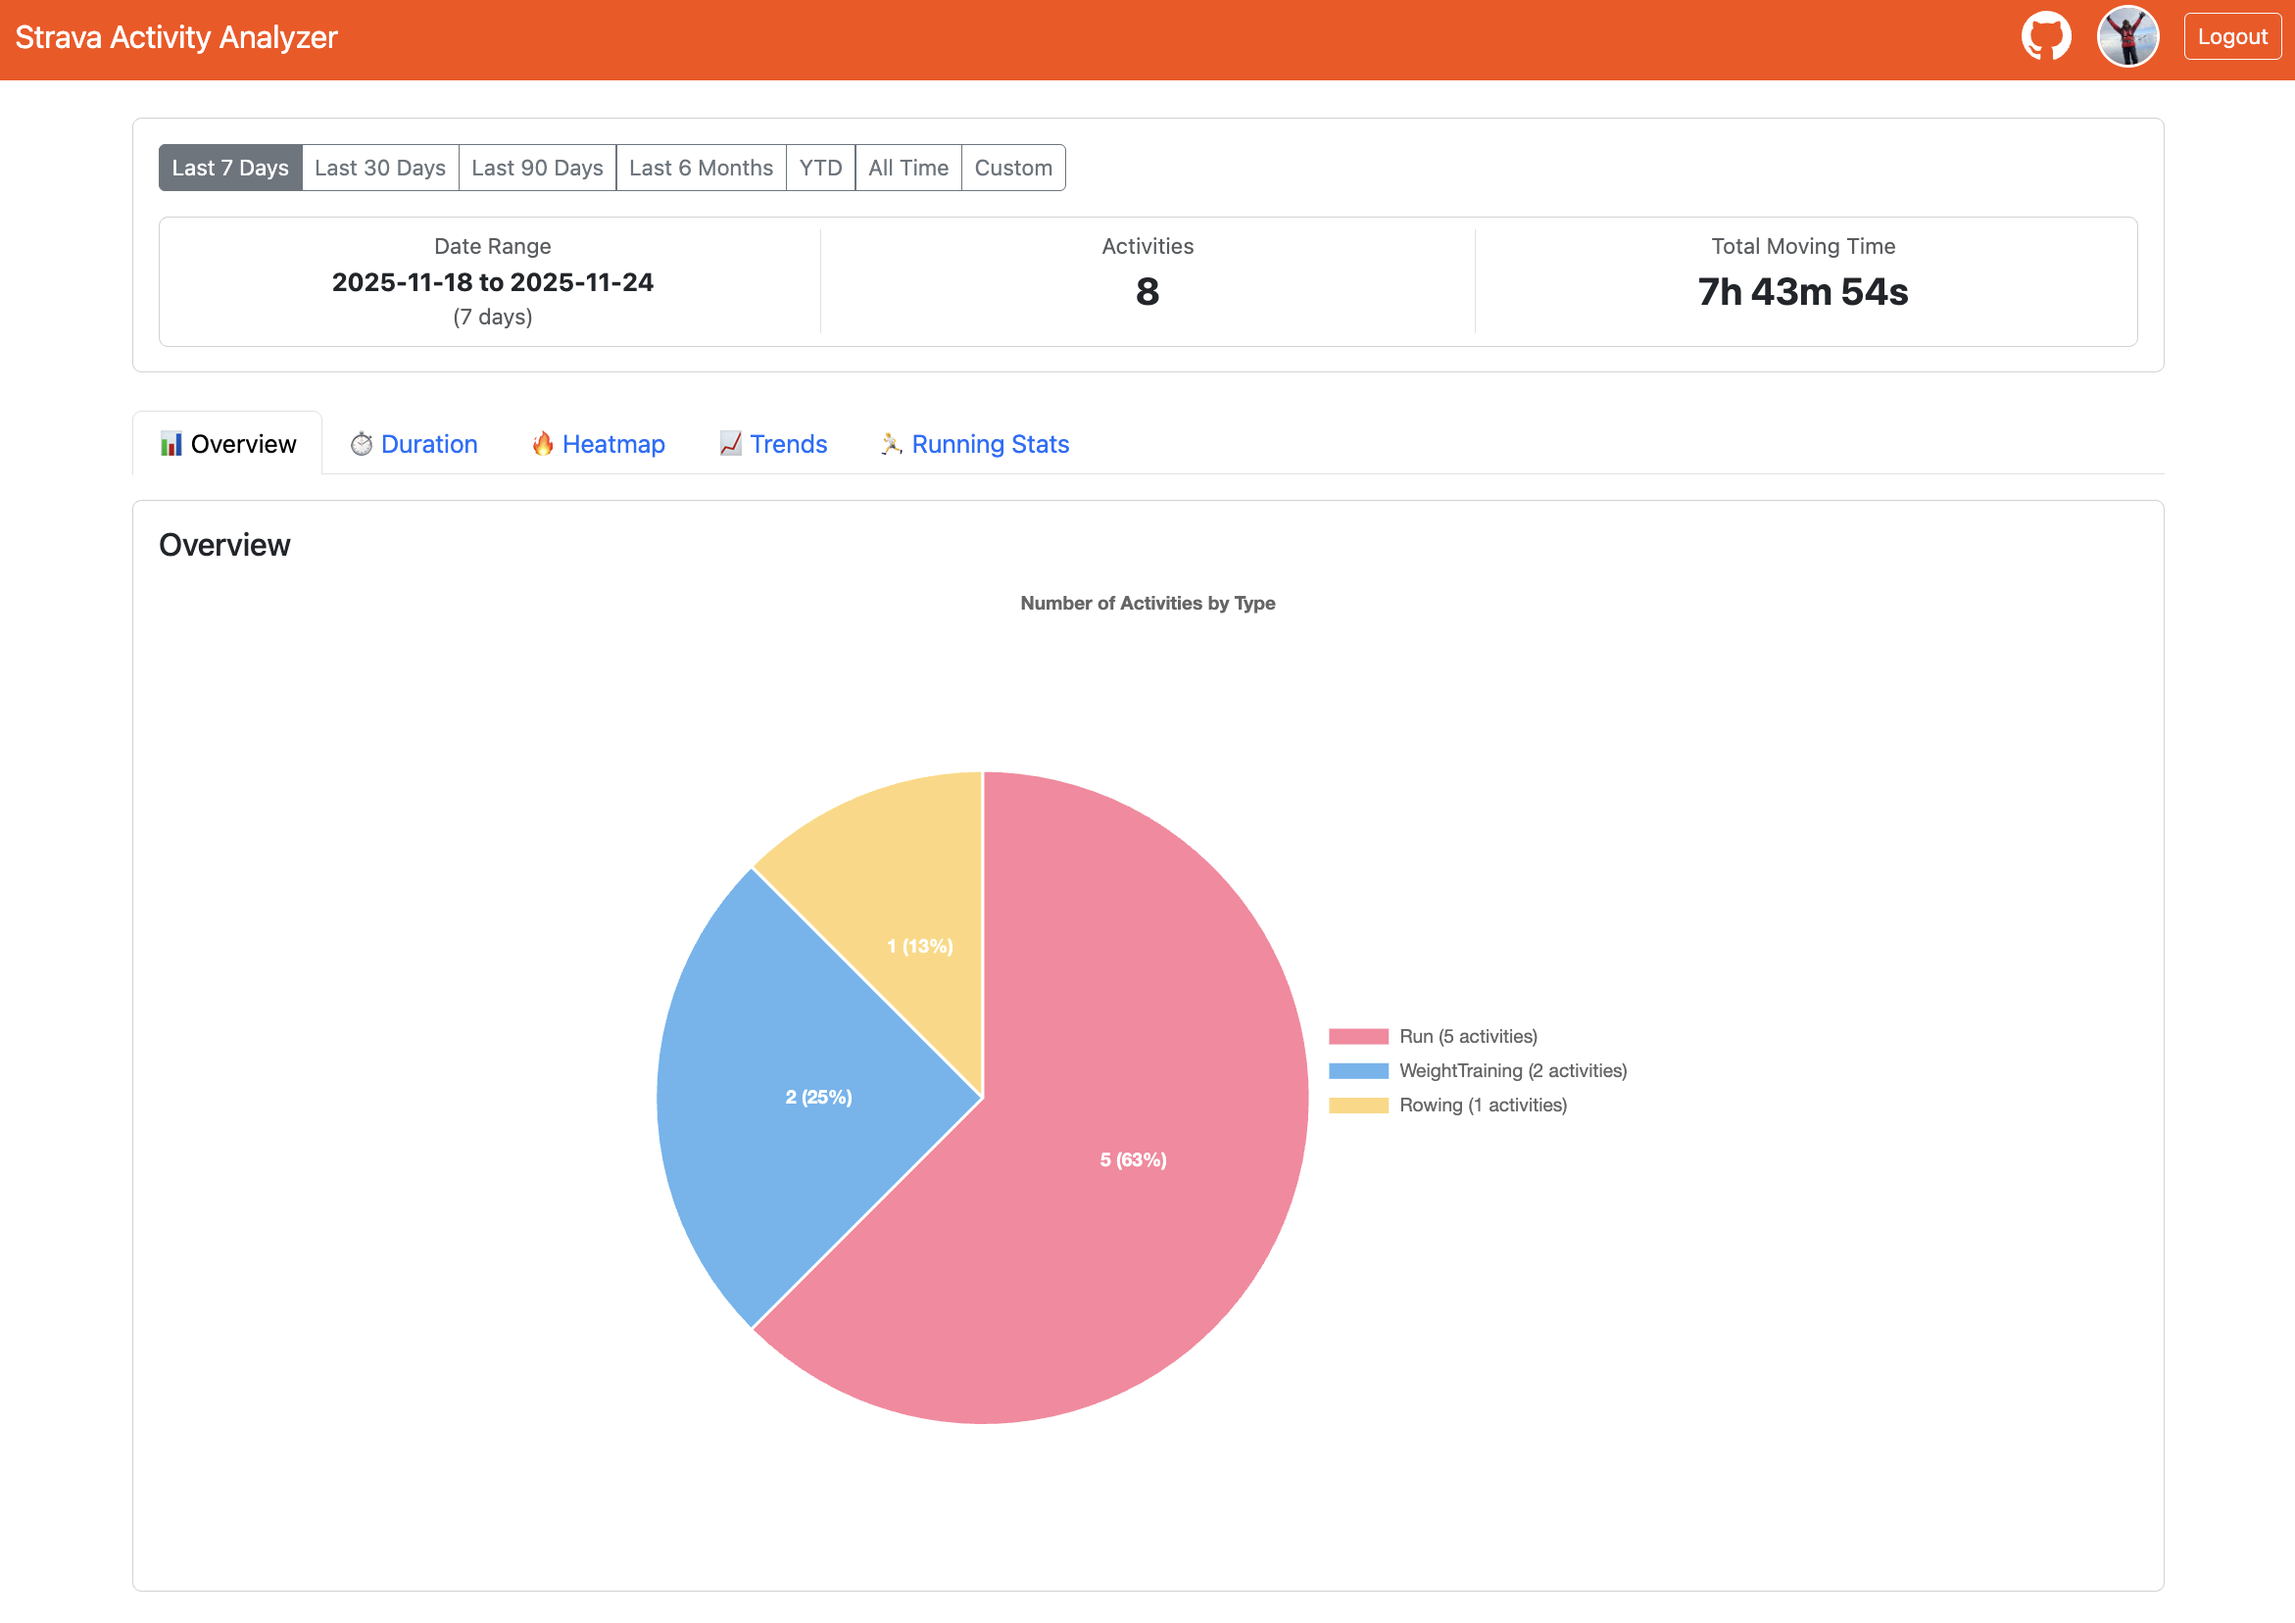
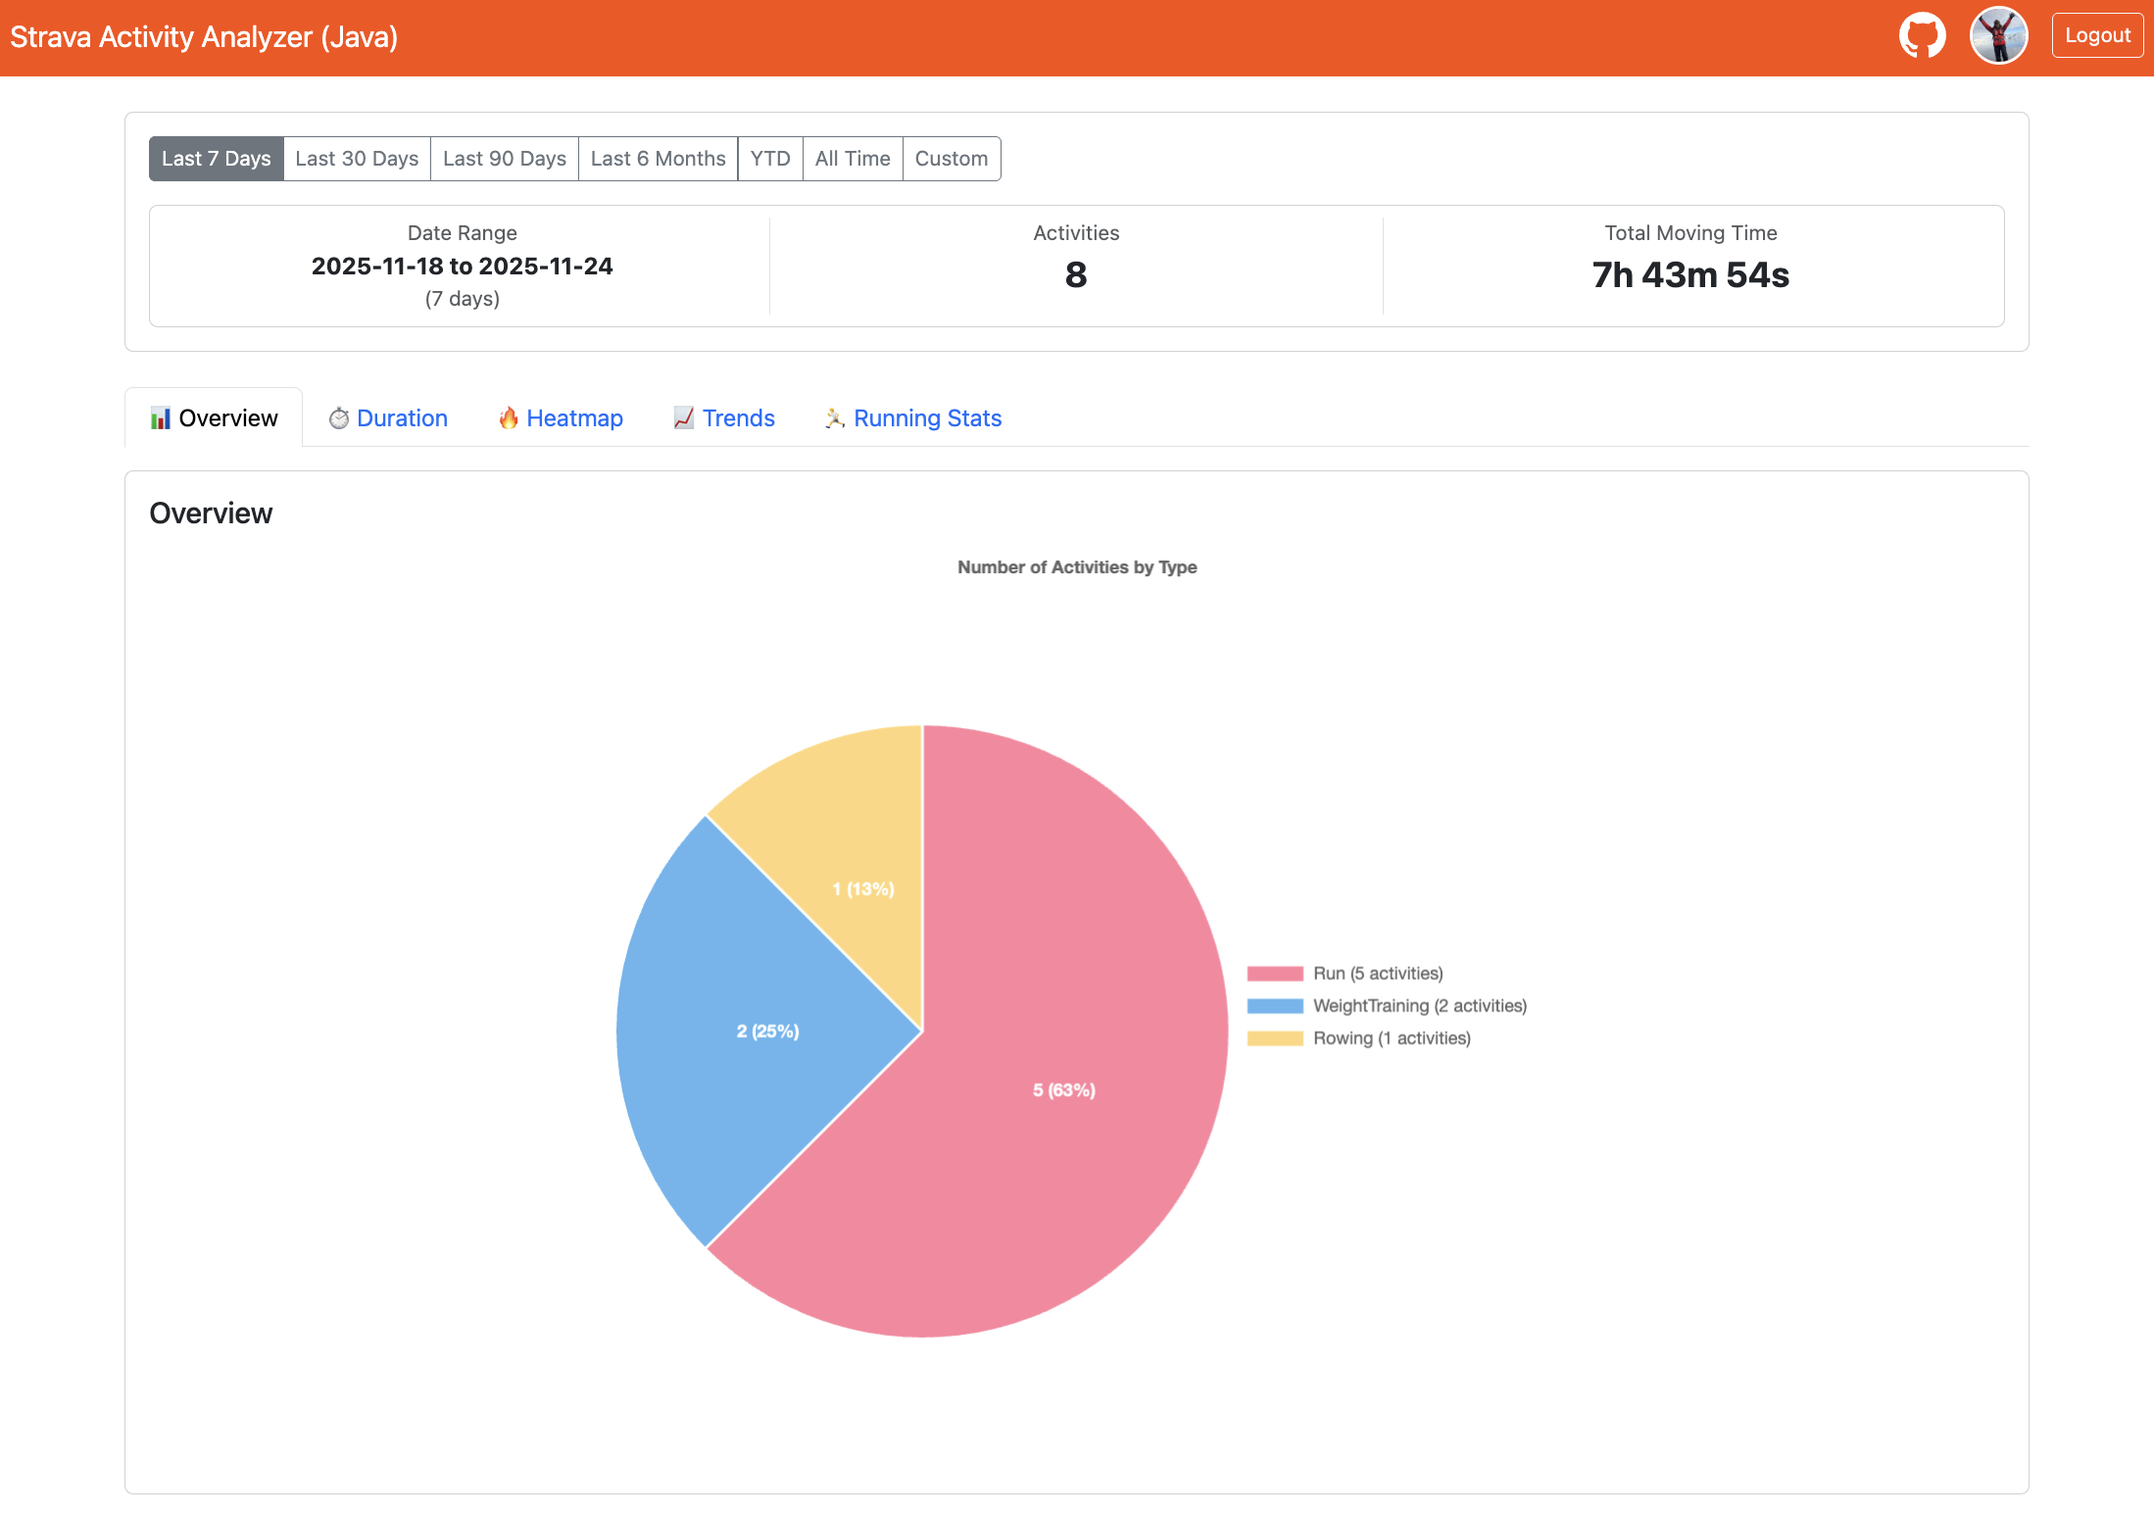
docs: add (Java) to app title in README and navbar
🤖 Generated with [Claude Code](https://claude.com/claude-code)

diff --git a/src/main/resources/templates/dashboard.html b/src/main/resources/templates/dashboard.html
@@ -64,7 +64,7 @@
 <body>
     <nav class="navbar navbar-expand-lg navbar-dark" style="background-color: #FC4C02;">
         <div class="container-fluid">
-            <a class="navbar-brand" href="/dashboard">Strava Activity Analyzer</a>
+            <a class="navbar-brand" href="/dashboard">Strava Activity Analyzer (Java)</a>
             <div class="d-flex align-items-center ms-auto">
                 <a href="https://github.com/arun-gupta/strava-stats-java" target="_blank" rel="noopener noreferrer"
                    class="text-white me-3" title="View on GitHub" style="text-decoration: none;">

diff --git a/README.md b/README.md
@@ -1,4 +1,4 @@
-# Strava Activity Analyzer
+# Strava Activity Analyzer (Java)
 
 A Spring Boot application for analyzing Strava activities with comprehensive statistics and visualizations.
 
